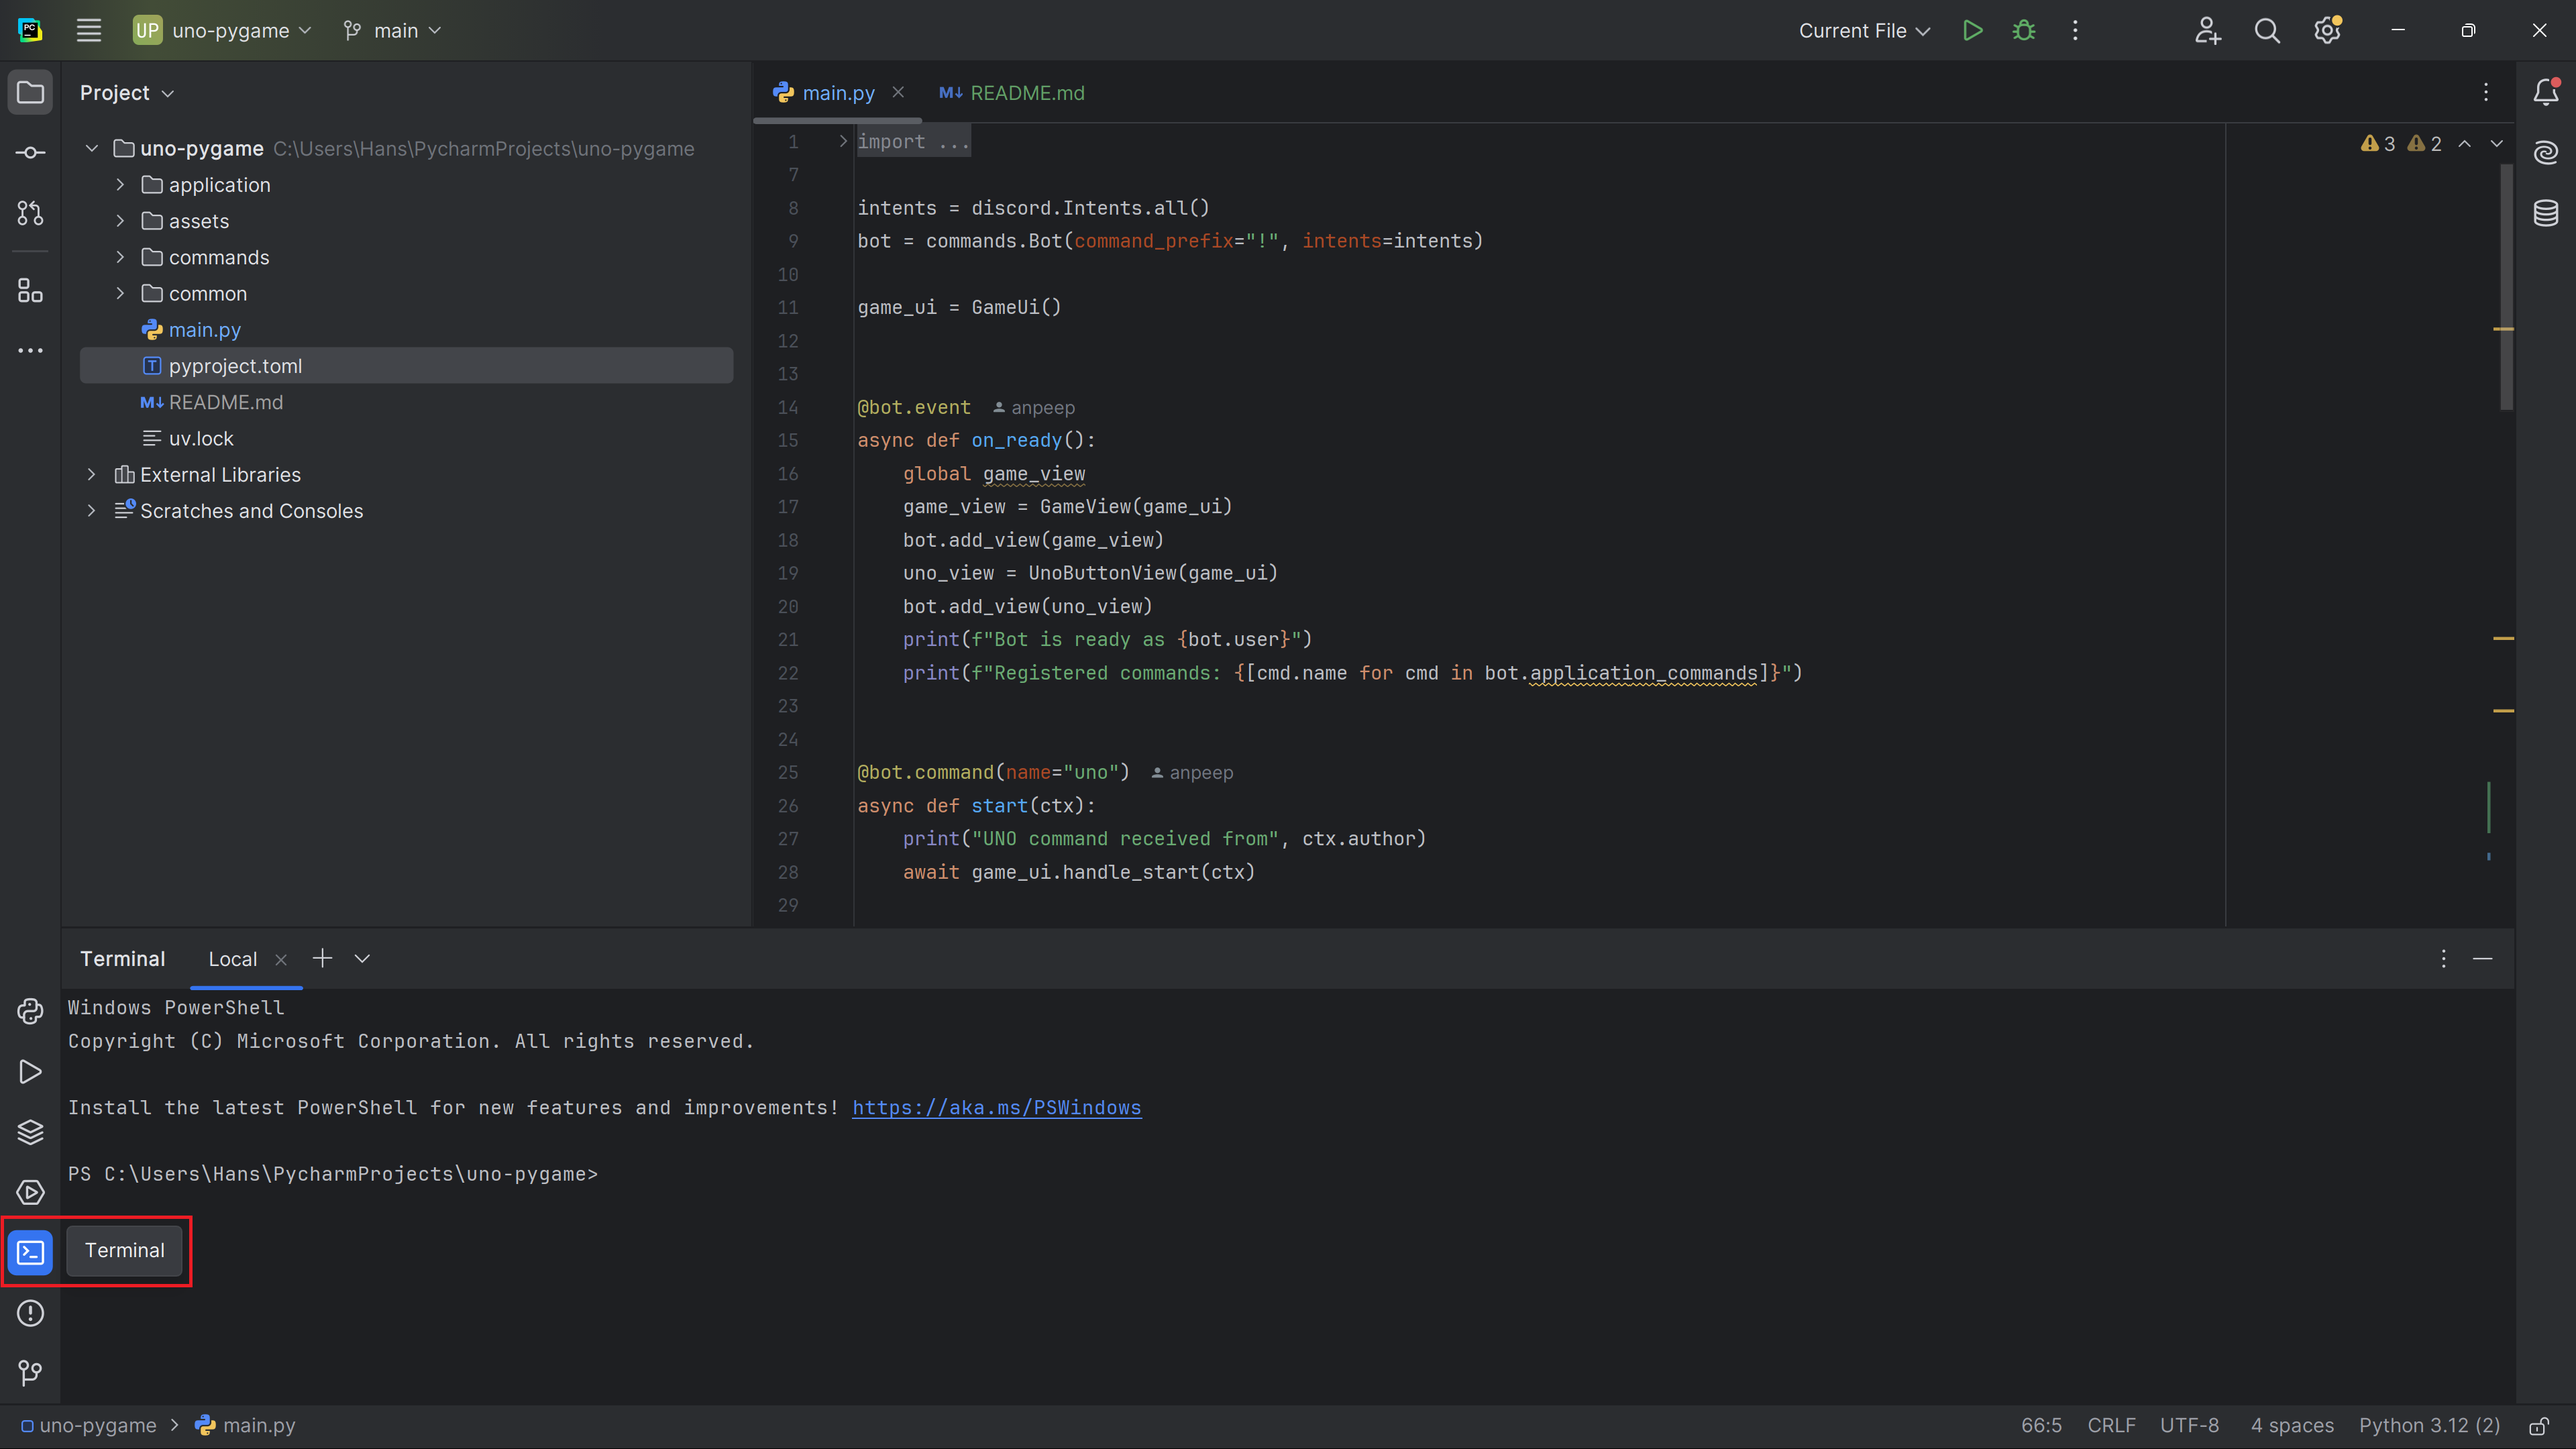
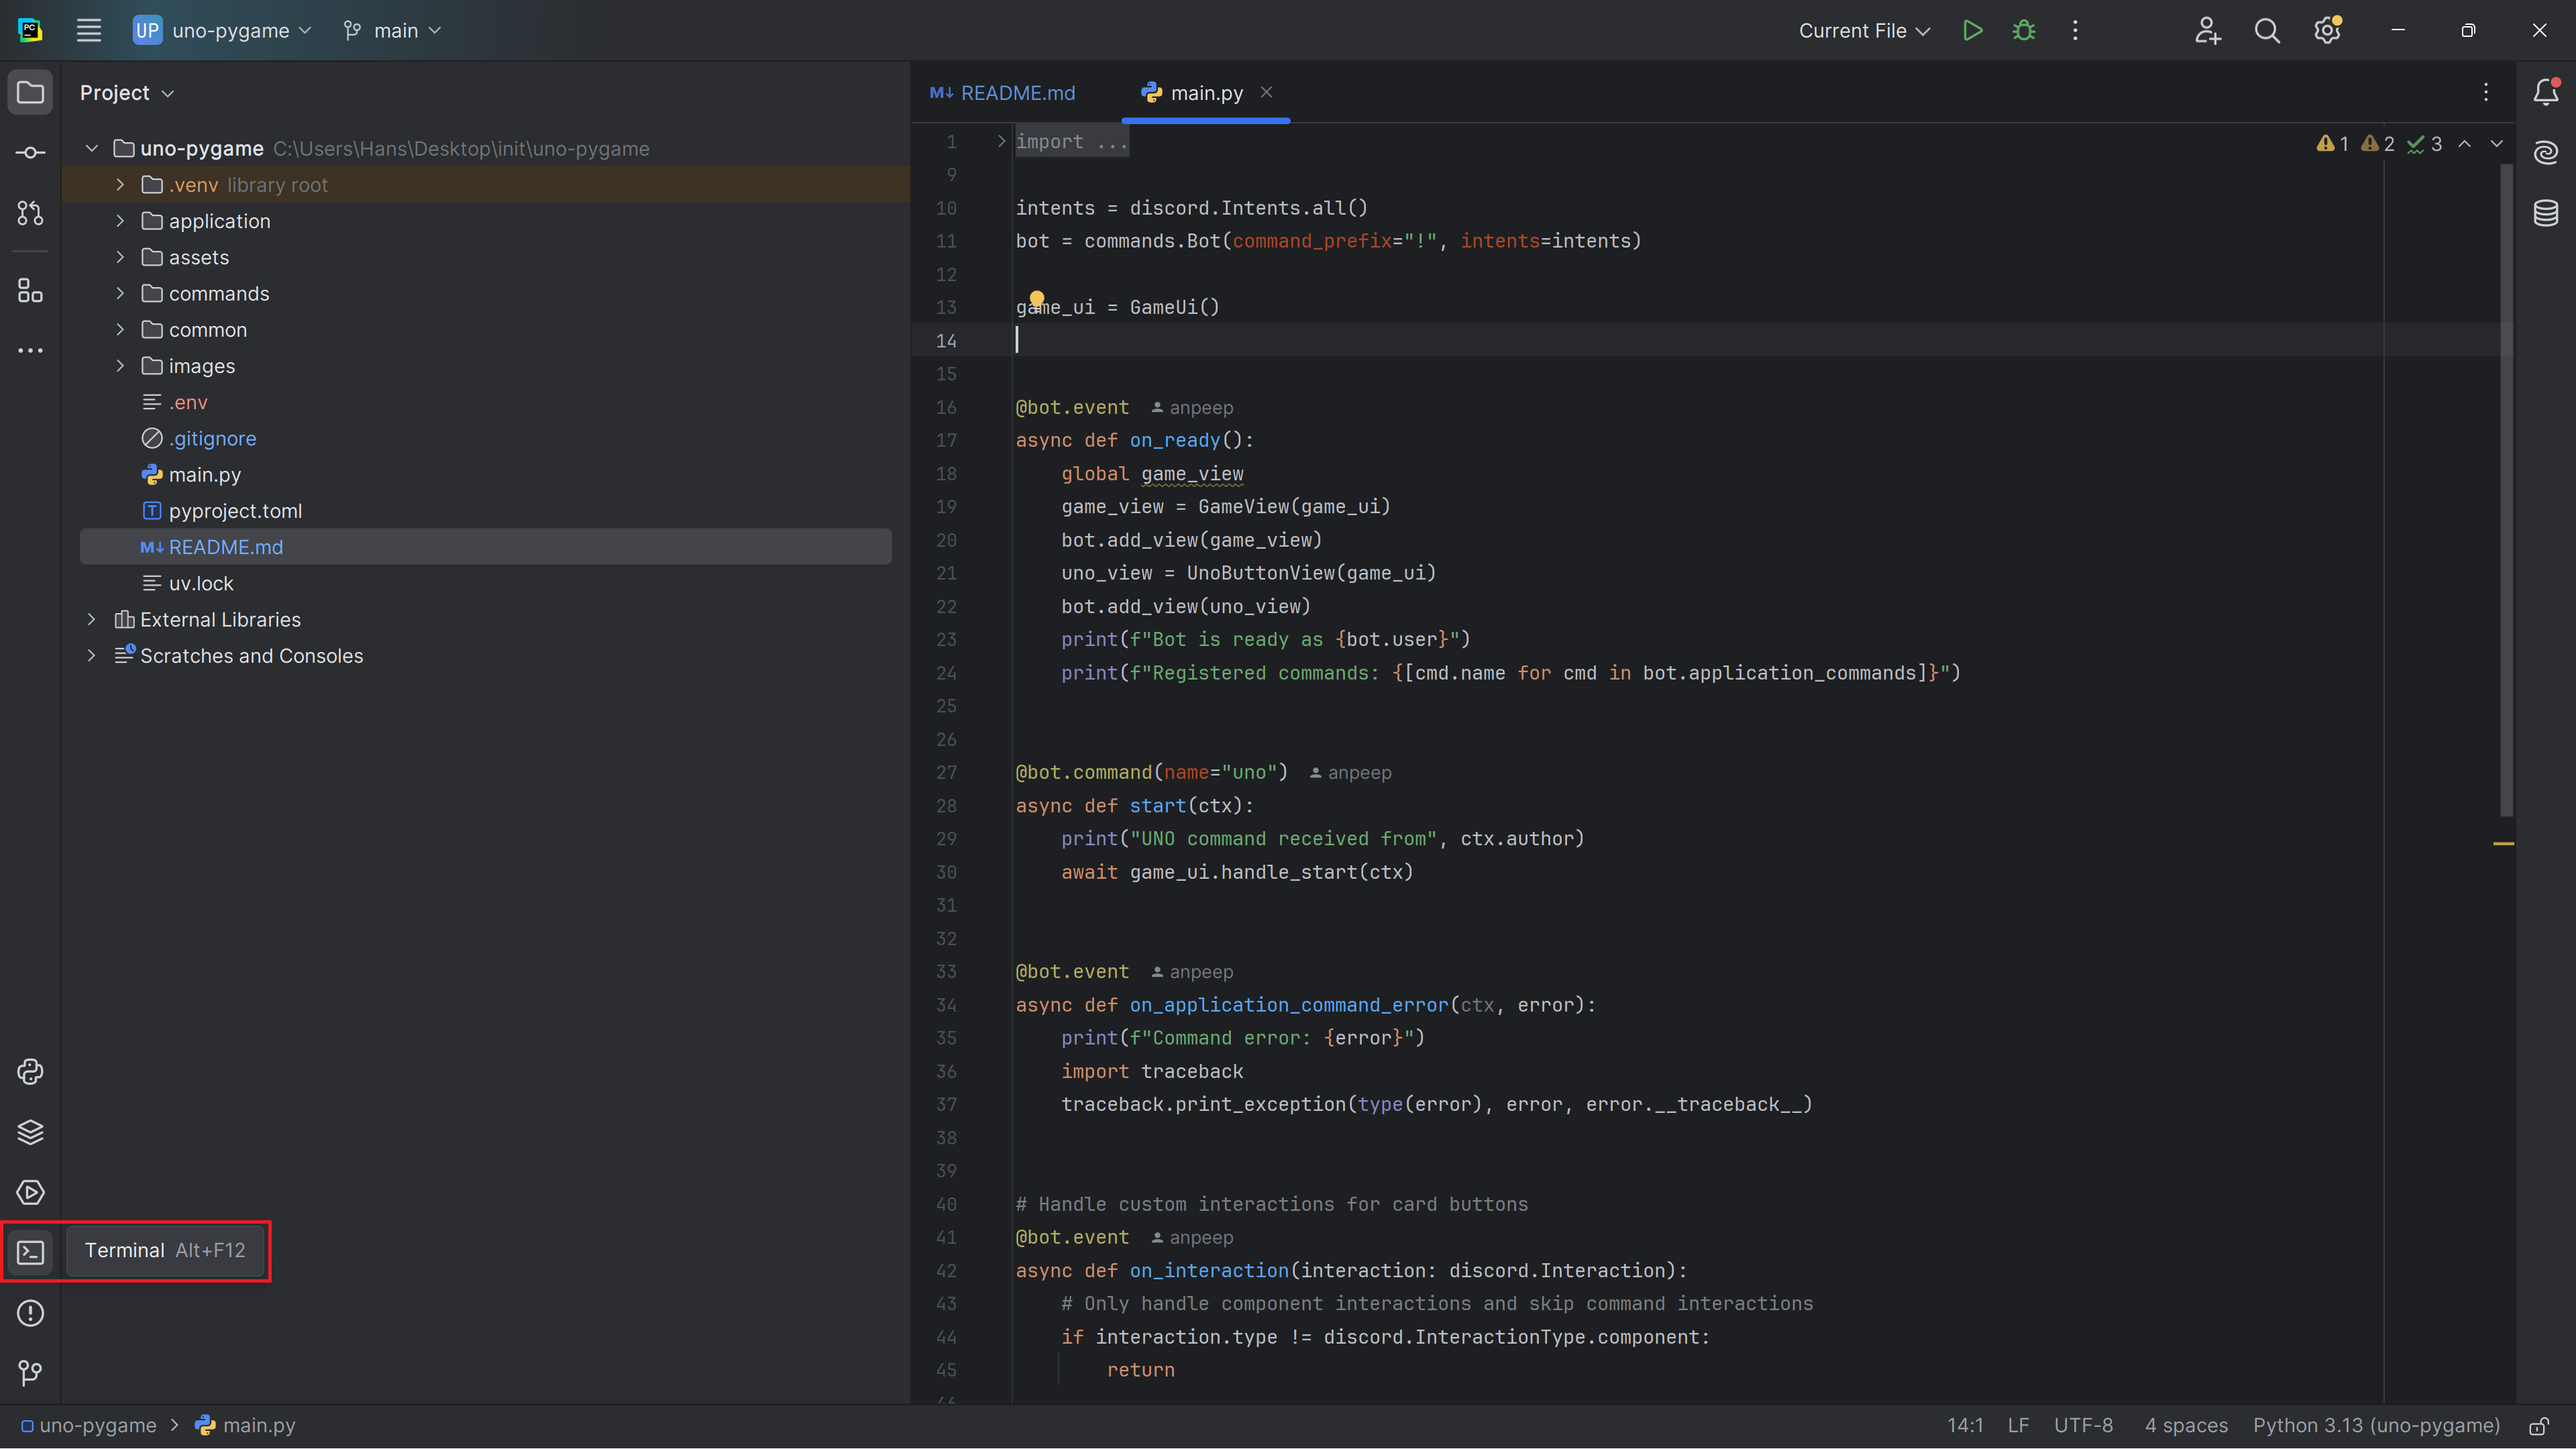
Better instructions for .env and terminal

diff --git a/main.py b/main.py
@@ -69,6 +69,6 @@ async def on_interaction(interaction: discord.Interaction):
 if __name__ == "__main__":
     config = dotenv_values(".env")
     token = config.get("TOKEN")
-    if token is None:
+    if token is None or not token:
         raise ValueError("loo fail nimega .env ja pane sinna TOKEN=isiklik Discord Developer Portal token")
     bot.run(token)

diff --git a/README.md b/README.md
@@ -1,7 +1,7 @@
 # Unobot
 
 ## Vajalike lisade alla laadimine    
-Ava käsurida (<kbd>alt</kbd>+<kbd>F12</kbd>) või vali alt vasakult menüüst terminal.  
+Ava käsurida (<kbd>alt</kbd>+<kbd>F12</kbd> või vali alt vasakult menüüst terminal).  
 <img src="images/going_to_terminal.png" width=75% />
 
 Peale seda sisesta konsooli järgnev käsk, vajuta <kbd>Enter</kbd> ning oota kuni see lõpetab.  
@@ -11,9 +11,7 @@ pip install py-cord audioop-lts python-dotenv
 <img src="images/pip_install.png" width=50% />
 
 ## Tokeni lisamine  
-Ava main.py fail ning keri faili lõppu.
-Seal on järgnev rida: `bot.run("token")`
-Pane `token` asemel enda boti token (jutumärgid peavad alles jääma tokeni algusesse ja lõppu).  
+Ava või loo `.env` fail ning lisa `TOKEN=` lõppu enda discordi boti token.
 <img src="images/adding_bot_token.png" width=75% />
 
 ## Boti jooksutamine 🐍
